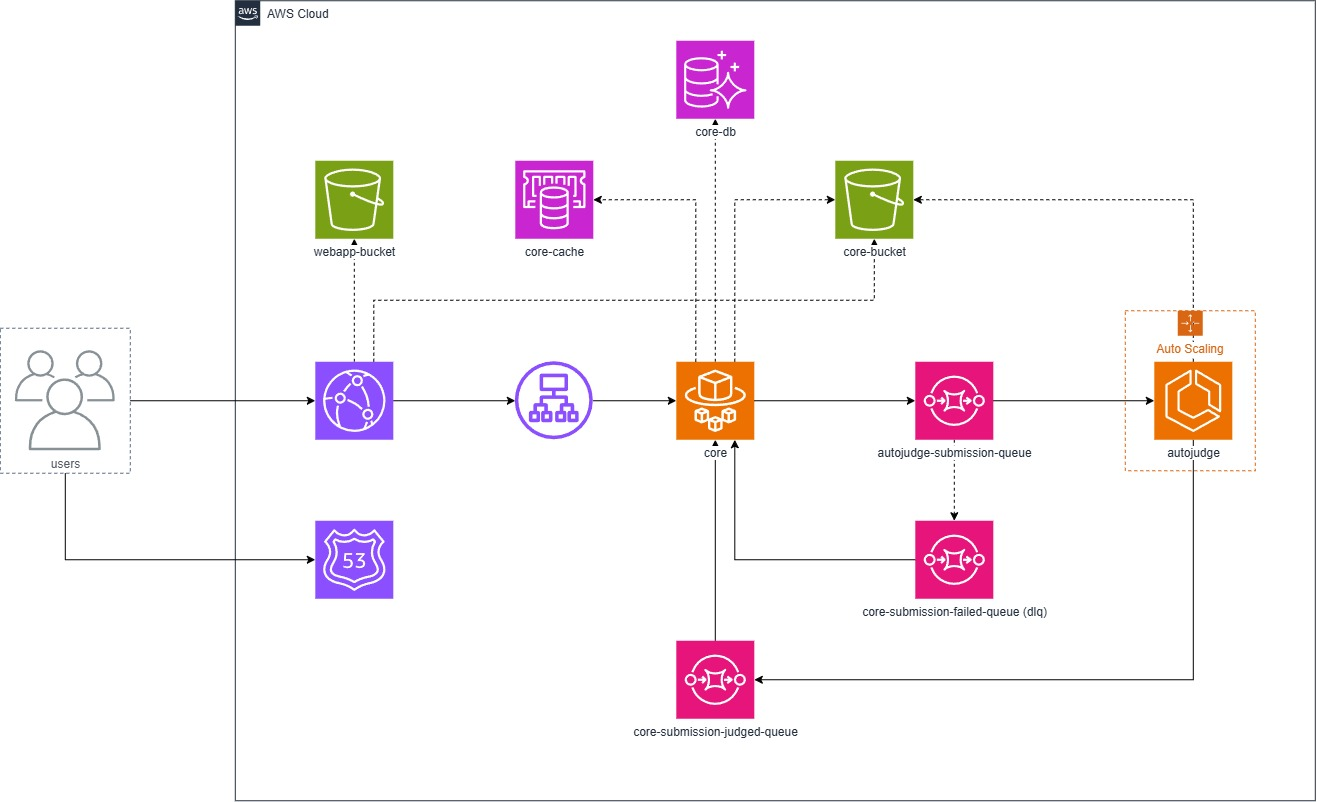
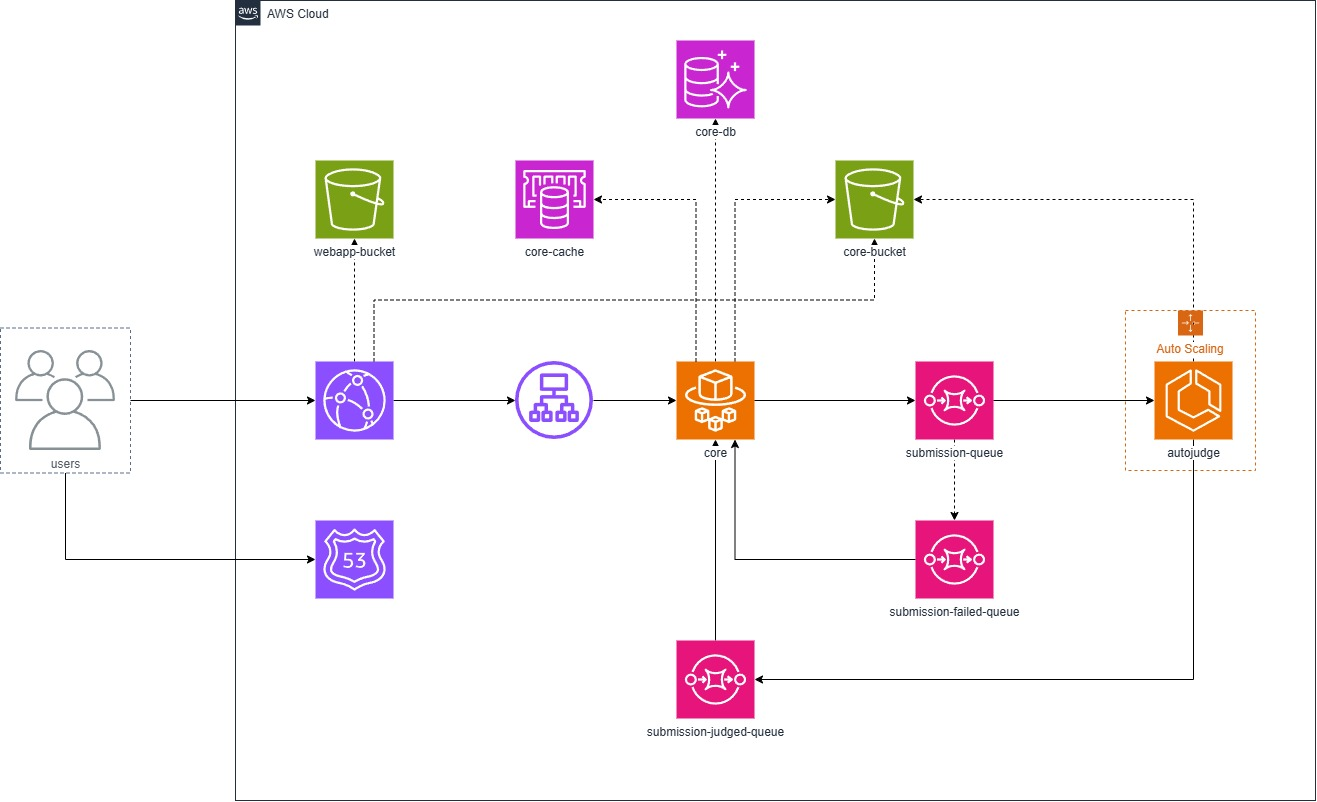
update documentation

diff --git a/docs/docs/database.md b/docs/docs/database.md
@@ -92,6 +92,17 @@ Forseti uses a PostgreSQL database to store its core data. The database schema i
 - `max_peak_memory_kb`: The maximum peak memory used by the execution in kilobytes.
 - `details_id`: The UUIDv7 of the details attachment associated with the execution.
 
+### announcements
+
+- `id`: A unique UUIDv7 identifying the announcement.
+- `created_at`: The timestamp when the announcement was created.
+- `updated_at`: The timestamp when the announcement was last updated.
+- `deleted_at`: The timestamp when the announcement was deleted, if applicable.
+- `version`: The version number of the announcement record, used for optimistic locking.
+- `contest_id`: The UUIDv7 of the contest the announcement is associated with.
+- `member_id`: The UUIDv7 of the member who created the announcement.
+- `text`: The text content of the announcement.
+
 ## Audit Tables
 
 Every table in the database has a corresponding audit table that tracks changes to the records over time. The audit tables have the same columns as the original tables, with additional columns for the revision number (`rev`), the type of revision (`revtype`) and flags (`*_mod`) indicating whether a particular column was modified in that revision (only applicable to updatable columns).
